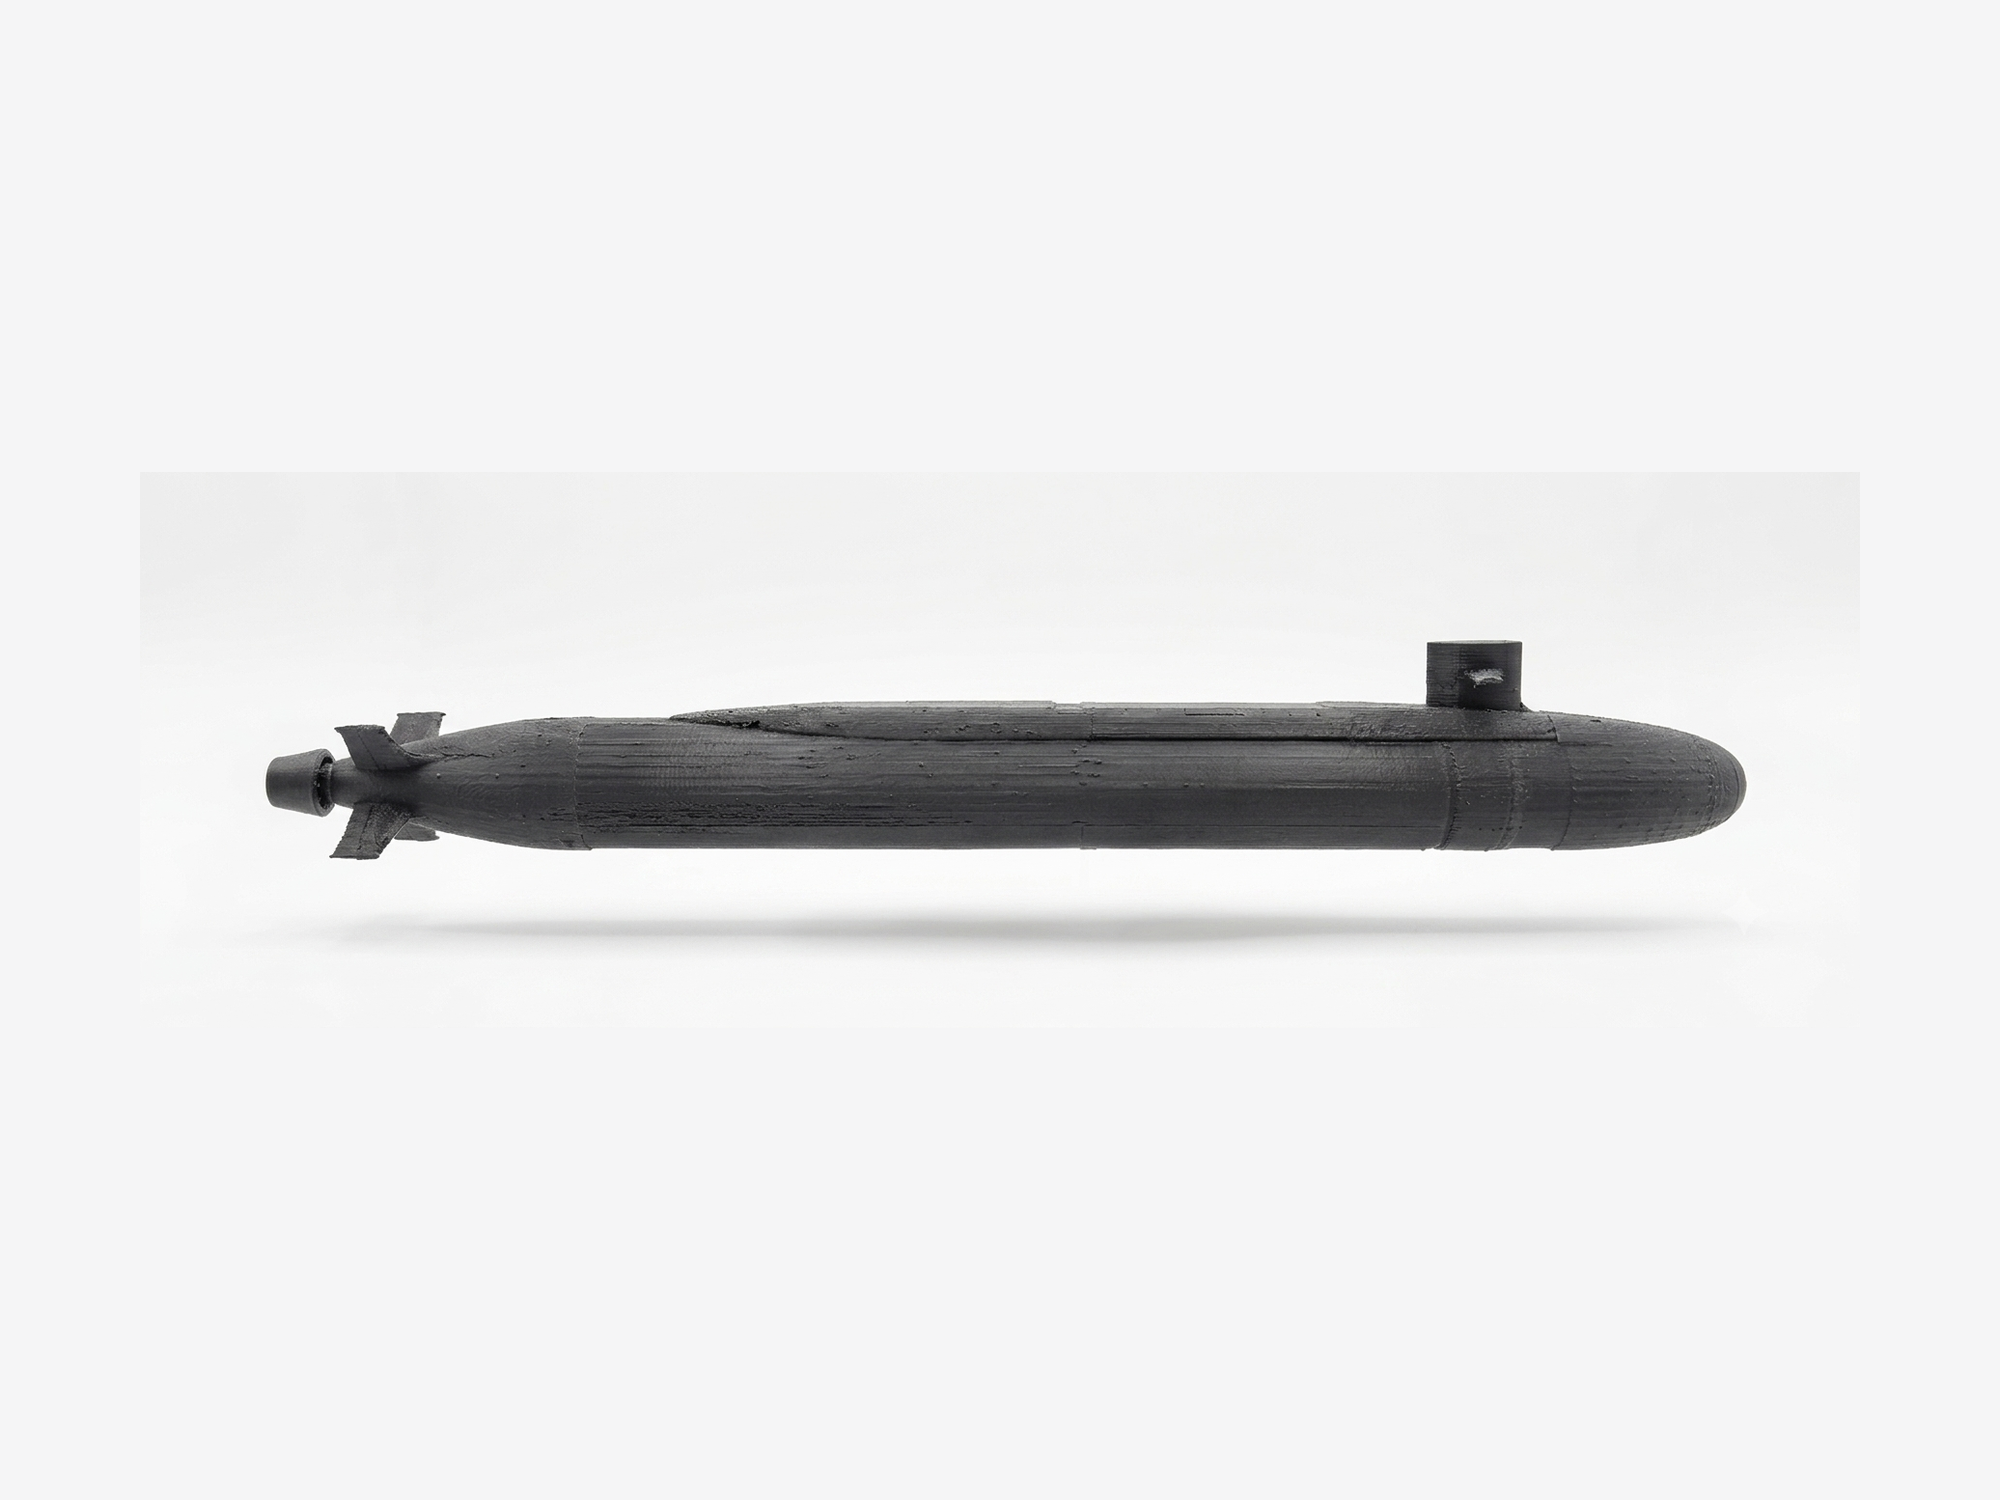
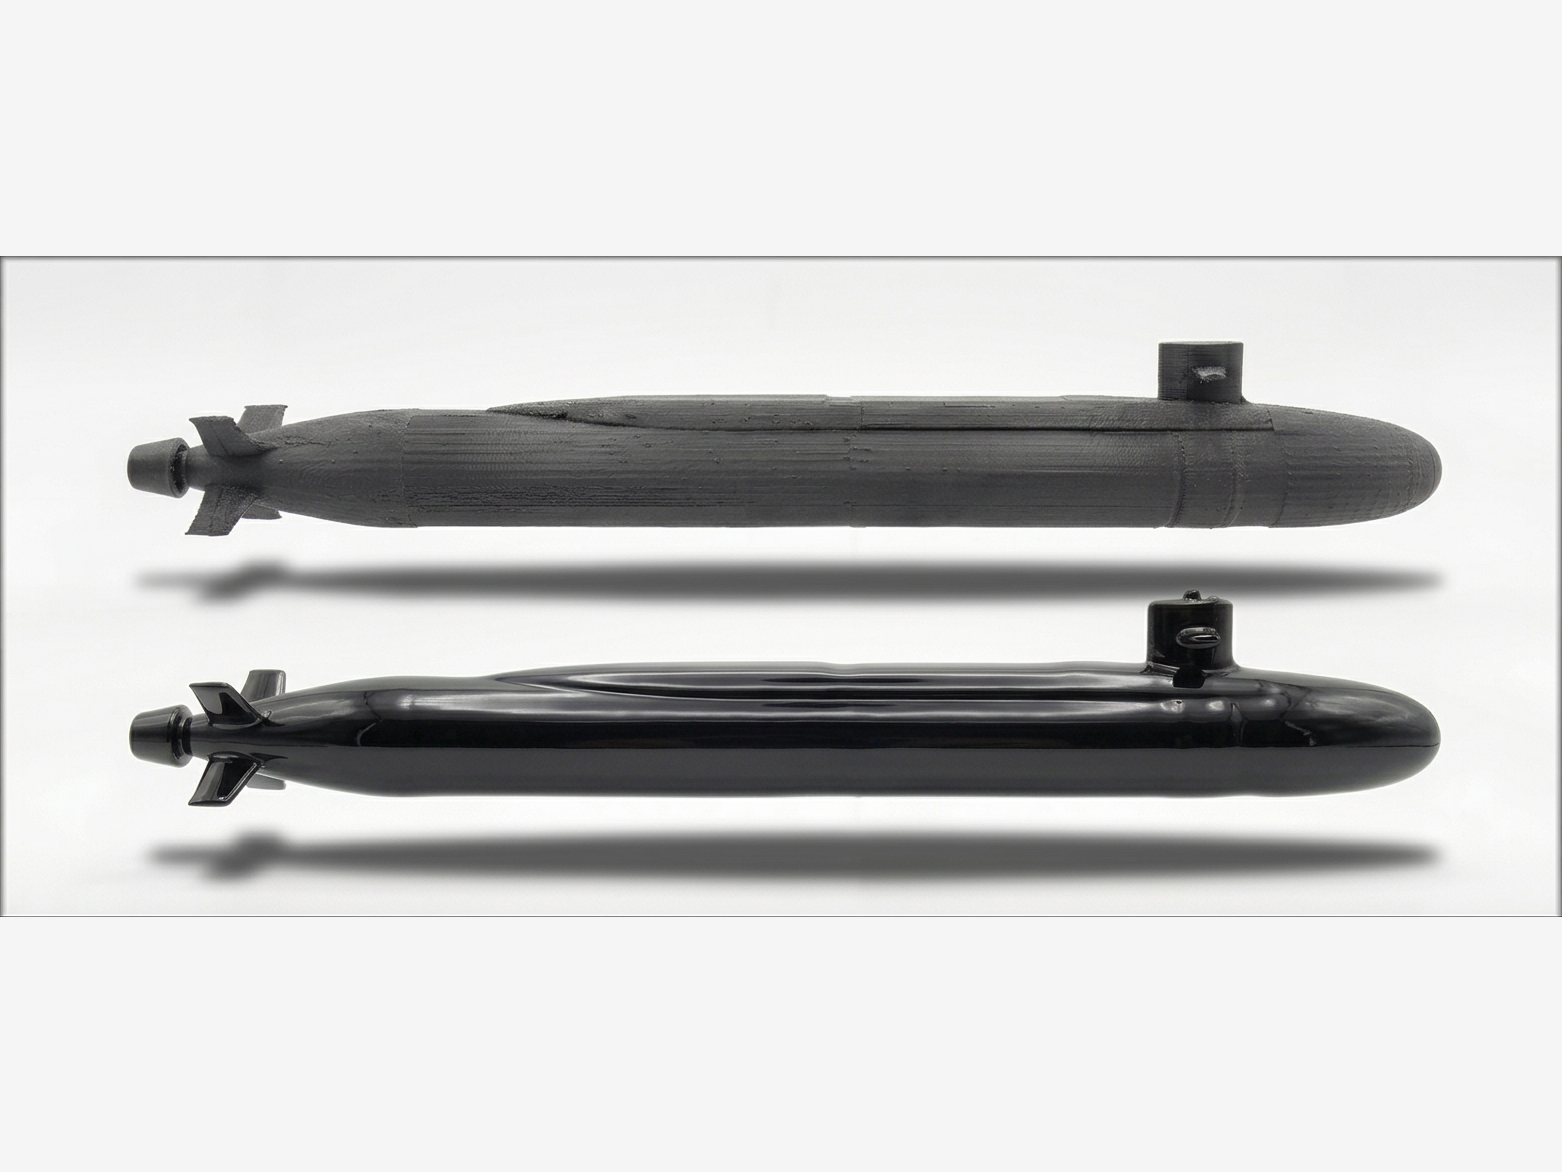
feat: update submarine project details and display order
Updated submarine project caption and changed visual replica description. Adjusted project display order.

Changed region(s): [[0.0615, 0.2765, 0.9219, 0.7679], [0.0, 0.215, 1.0, 0.7986], [0.0, 0.4915, 0.0307, 0.7679]]

diff --git a/app/page.tsx b/app/page.tsx
@@ -19,7 +19,7 @@ const upcomingCourses = [
 ]
 
 const industryHighlights = [
-  "Engineered a high-fidelity, 1:96 scale digital twin of the Columbia-class submarine using PTC Creo, executing complex geometric modeling to support design verification and spatial analysis.",
+  "Engineered a high-fidelity, 1:96 scale visual replica of the Columbia-class submarine using PTC Creo, executing complex geometric modeling to support design verification and spatial analysis.",
   "Leaned into additive manufacturing (3D printing) technologies to rapidly prototype the CAD model, validating physical tolerances, structural integrity, and assembly alignment.",
   "Conducted multi-disciplinary impact reviews of proposed modifications, evaluating both electrical configurations and mechanical interfaces to identify potential failure points and prevent unintended cascading risks across sub-systems.",
   "Evaluated and processed Proposed Notice of Change (PNOCs) and technical documentation from prime contractors, including Lockheed Martin Space and General Dynamics Mission Systems, ensuring cross-enterprise compliance with configuration management workflows.",
@@ -213,7 +213,7 @@ export default function PortfolioPage() {
                     alt="3D-printed 1:96 scale test print of the Columbia-class submarine model"
                     className="w-full object-contain"
                   />
-                  <figcaption className="px-4 py-3 text-sm text-muted-foreground bg-white/[0.04]">
+                  <figcaption className="px-4 py-3 text-sm text-black bg-white">
                     First test print of the 1:96 scale Columbia-class submarine model, prototyped during my time
                     supporting the program.
                   </figcaption>

diff --git a/lib/projects.ts b/lib/projects.ts
@@ -660,7 +660,7 @@ void playNagBuzz(unsigned long weaknessSeconds) {
 ]
 
 // Display order: Formula SAE, Retrodog, Boeing 737, Timed Phone Jail, RBR, FEM, Motion-Activated Alarm (PIR)
-const projectDisplayOrder = [1, 7, 8, 9, 10, 5, 2, 3, 4]
+const projectDisplayOrder = [1, 10, 7, 8, 9, 5, 2, 3, 4]
 export const projects: Project[] = projectDisplayOrder
   .map((id) => projectsList.find((p) => p.id === id))
   .filter((p): p is Project => Boolean(p))
